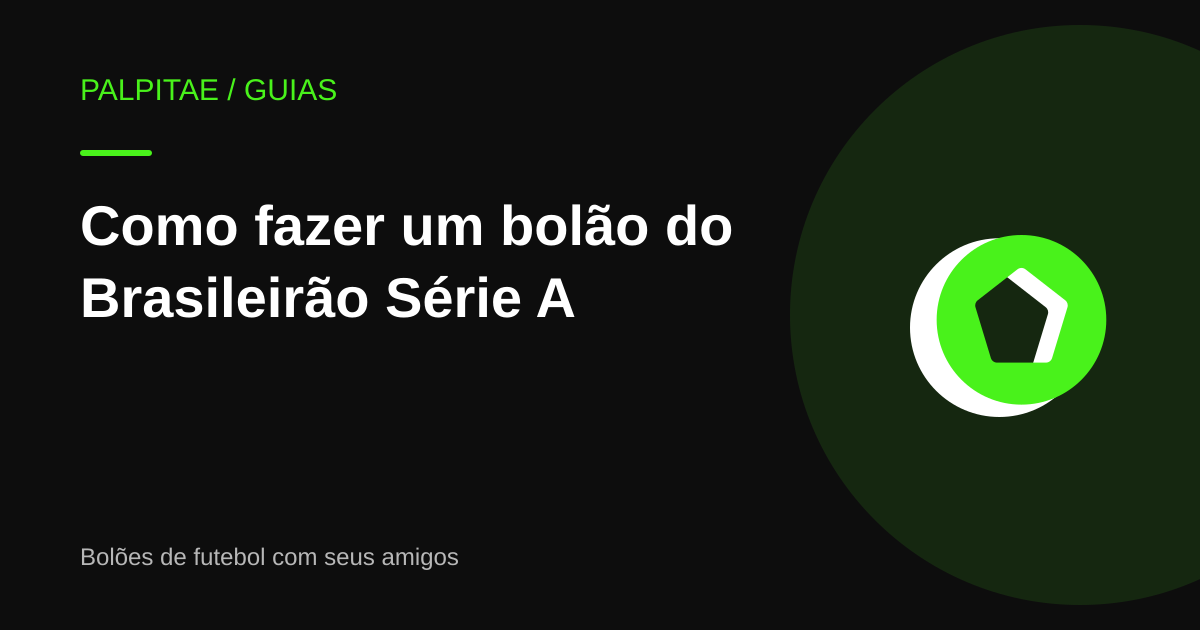
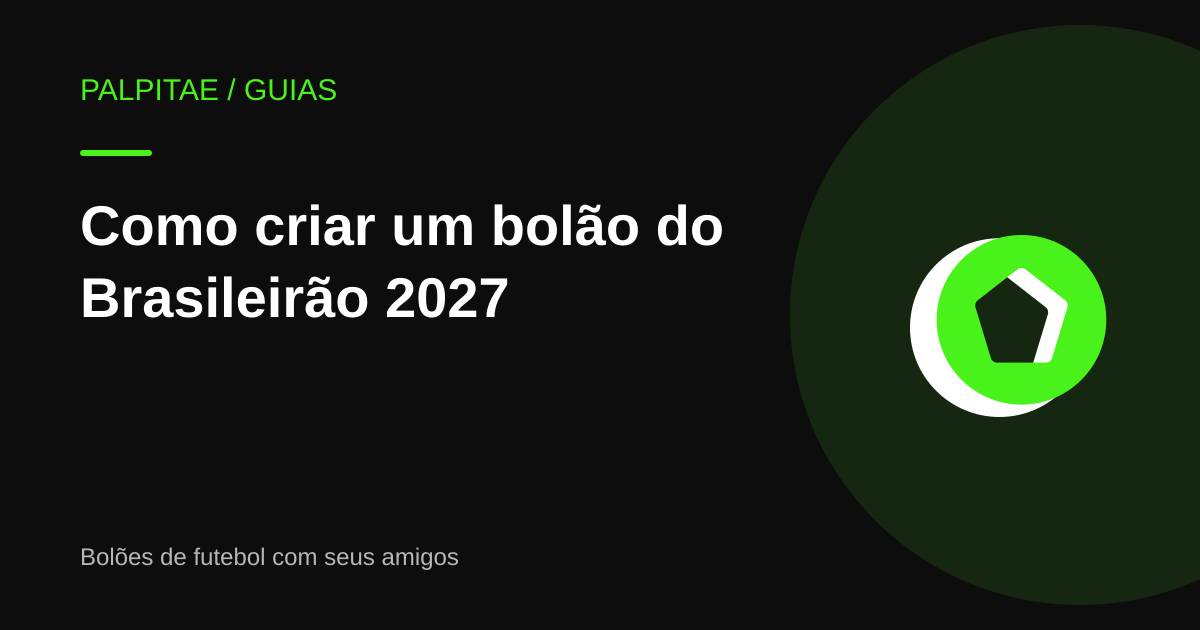
feat(seo): guia do Brasileirão responde a quem quer criar o bolão de 2027
Título, descrição, introdução e FAQ falam em criar o bolão de 2027, com
início em 27/01 segundo a CBF. O bloco de criar aparece depois da
introdução e a imagem de compartilhamento usa o título novo. URL e
canonical não mudam.

Changed region(s): [[0.2158, 0.3016, 0.6167, 0.3921], [0.3083, 0.4222, 0.4933, 0.5127]]

diff --git a/web/build/guides.ts b/web/build/guides.ts
@@ -43,6 +43,19 @@ interface GuideFaq {
   answer: string
 }
 
+interface GuideCta {
+  heading: string
+  text: string
+  /** Button label. Must not name a competition the sign-up flow can't select. */
+  label: string
+}
+
+const DEFAULT_CTA: GuideCta = {
+  heading: 'Pronto para começar?',
+  text: 'Crie um bolão grátis e convide seus amigos em segundos.',
+  label: 'Criar meu bolão grátis',
+}
+
 interface Guide {
   /** URL slug; page is served at /guias/<slug>/. */
   slug: string
@@ -60,6 +73,11 @@ interface Guide {
    * JSON-LD so search engines and answer engines can quote it.
    */
   faq?: GuideFaq[]
+  /**
+   * Replaces the default CTA copy and repeats the CTA right after the intro, for
+   * guides whose reader arrives wanting to create a pool.
+   */
+  cta?: GuideCta
   /**
    * ISO date (YYYY-MM-DD) the guide first went live: Article `datePublished`.
    * Fixed forever. Taken from the commit on main that introduced the slug
@@ -212,44 +230,66 @@ export const guides: Guide[] = [
   },
   {
     slug: 'bolao-do-brasileirao',
-    title: 'Como fazer um bolão do Brasileirão Série A',
+    title: 'Como criar um bolão do Brasileirão 2027',
     teaser:
-      'Clique aqui e veja como montar um bolão do Brasileirão com os amigos: 38 rodadas de palpites, pontuação automática e classificação atualizada o ano inteiro.',
+      'Clique aqui e veja como criar um bolão do Brasileirão 2027: início em 27 de janeiro, o que é preciso para começar, pontuação recomendada e regras para 38 rodadas.',
     description:
-      'Monte um bolão do Brasileirão Série A com os amigos: regras de pontuação para 38 rodadas, trava dos palpites e como manter o grupo engajado na temporada.',
+      'Como criar um bolão do Brasileirão 2027 com os amigos, o que é preciso para começar e a pontuação recomendada. A Série A começa em 27 de janeiro, segundo a CBF.',
     intro:
-      'O Brasileirão é o campeonato perfeito para bolão: são 38 rodadas ao longo do ano, jogo importante quase toda semana e reviravolta até a última rodada. Veja como montar o seu, que regras usar e como manter a disputa viva a temporada inteira.',
+      'A Série A de 2027 começa em 27 de janeiro, segundo o calendário divulgado pela CBF. Para criar o bolão, você precisa de uma conta Google e dos amigos que vão entrar no grupo por link ou código.',
+    cta: {
+      heading: 'Entre e crie o grupo do bolão',
+      text: 'Depois de entrar com a conta Google, toque em Criar grupo e escolha a competição. A Série A 2027 entra nessa lista depois da publicação da tabela.',
+      label: 'Criar bolão no Palpitae',
+    },
     sections: [
       {
-        heading: 'Por que o Brasileirão dá um ótimo bolão',
+        heading: 'Quando o Brasileirão 2027 entra no Palpitae',
         body: [
-          'Diferente de uma Copa do Mundo, que dura um mês, o Brasileirão é um campeonato de pontos corridos com 20 times e 380 jogos. Isso significa palpites toda semana durante mais de seis meses — a disputa do bolão acompanha a temporada inteira, e quem começa mal tem tempo de sobra para se recuperar.',
-          'Pontos corridos também premiam consistência: acertar palpites de jogos "fáceis" toda rodada vale tanto quanto cravar um placar improvável de vez em quando. É um teste real de quem acompanha o campeonato de verdade.',
+          'O calendário divulgado pela CBF marca o início da Série A em 27 de janeiro de 2027. A tabela com os confrontos e os horários de cada rodada ainda não tinha sido publicada na última atualização deste guia, em novembro de 2026.',
+          'O Palpitae carrega os jogos de uma temporada depois da publicação da tabela. Enquanto a Série A 2027 não aparecer na lista de competições do formulário de criação, não dá para criar o grupo dessa temporada. A lista mostra as competições com jogos em andamento ou por começar, e cada grupo acompanha uma competição.',
         ],
       },
       {
-        heading: 'Regras que funcionam bem em pontos corridos',
+        heading: 'Pontuação recomendada para 38 rodadas',
         body: [
-          'O sistema clássico funciona muito bem no Brasileirão: 3 pontos para quem crava o placar exato e 1 ponto para quem acerta só o resultado (vitória, empate ou derrota). Em 38 rodadas, essa diferença entre cravar e só acertar o vencedor separa bem os primeiros colocados.',
-          'Uma decisão importante é a trava dos palpites: o mais justo é travar cada palpite no horário de início daquele jogo, e não a rodada inteira de uma vez — no Brasileirão os jogos de uma mesma rodada se espalham entre sexta e segunda, e ninguém deveria ser impedido de palpitar no jogo de segunda por causa do jogo de sexta.',
+          'Recomendamos a opção Clássico, que já vem marcada no formulário de criação do Palpitae. Ela dá 3 pontos para quem crava o placar exato e 1 ponto para quem acerta só o resultado. Em 38 rodadas, essa diferença separa os primeiros colocados.',
+          'Combine também quando o palpite trava. O mais justo é travar cada palpite no horário de início do próprio jogo, porque os jogos de uma mesma rodada se espalham entre sexta e segunda. Se a rodada inteira travasse de uma vez, ninguém conseguiria palpitar no jogo de segunda depois do início do jogo de sexta.',
+        ],
+      },
+      {
+        heading: 'Por que o Brasileirão dá um ótimo bolão',
+        body: [
+          'Uma Copa do Mundo dura um mês. O Brasileirão é um campeonato de pontos corridos com 20 times e 380 jogos, e o bolão acompanha a temporada inteira. Quem começa mal tem tempo de sobra para se recuperar.',
+          'Pontos corridos também premiam consistência. Acertar o resultado de jogos "fáceis" toda rodada soma tanto quanto cravar um placar improvável de vez em quando, e quem acompanha o campeonato de verdade leva vantagem.',
         ],
       },
       {
         heading: 'Como manter o grupo engajado por 38 rodadas',
         body: [
-          'A temporada é longa, e o segredo é reduzir o atrito: se registrar palpite der trabalho, o grupo esvazia em um mês. Palpites pelo celular, lembrete antes da rodada e classificação atualizada automaticamente fazem mais diferença do que qualquer prêmio.',
-          'Também ajuda ter marcos no caminho: quem lidera no primeiro turno, quem foi o melhor do returno, quem acertou mais placares exatos. São títulos paralelos que renovam o interesse de quem já não briga pelo topo.',
+          'A temporada é longa, e o grupo esvazia se registrar o palpite der trabalho. Palpite pelo celular, lembrete antes da rodada e classificação atualizada automaticamente fazem mais diferença do que qualquer prêmio.',
+          'Marcos no caminho também ajudam, como quem lidera no primeiro turno, quem foi o melhor do returno e quem acertou mais placares exatos. Esses títulos paralelos renovam o interesse de quem já não briga pelo topo.',
         ],
       },
       {
-        heading: 'Monte seu bolão do Brasileirão no Palpitae',
+        heading: 'Como o bolão do Brasileirão funciona no Palpitae',
         body: [
-          'No Palpitae o Brasileirão Série A 2026 já está disponível: você cria um grupo privado gratuito, convida os amigos por link e cada um dá seus palpites rodada a rodada. Os resultados sincronizam sozinhos, a pontuação é automática e cada palpite trava no início do próprio jogo.',
-          'A classificação do grupo e a tabela real do campeonato ficam lado a lado no app — dá para ver quem manja de futebol e quem só tem sorte, a temporada inteira.',
+          'No Palpitae você cria um grupo privado gratuito, convida os amigos por link ou código e cada um dá seus palpites rodada a rodada. Os resultados sincronizam sozinhos, a pontuação é automática e cada palpite trava no início do próprio jogo.',
+          'A página do grupo traz a classificação do bolão e a tabela real do campeonato, e dá para ver quem manja de futebol e quem só tem sorte a temporada inteira.',
         ],
       },
     ],
     faq: [
+      {
+        question: 'Quando começa o Brasileirão 2027?',
+        answer:
+          'A Série A começa em 27 de janeiro de 2027, segundo o calendário divulgado pela CBF. A data de cada rodada depende da tabela.',
+      },
+      {
+        question: 'Já dá para criar o bolão do Brasileirão 2027?',
+        answer:
+          'Só quando a Série A 2027 aparecer na lista de competições do formulário de criação. O Palpitae carrega os jogos depois da publicação da tabela. Enquanto isso, a lista mostra as competições com jogos em andamento ou por começar.',
+      },
       {
         question: 'Quantos jogos tem o Brasileirão Série A?',
         answer:
@@ -267,7 +307,7 @@ export const guides: Guide[] = [
       },
     ],
     published: '2026-07-12',
-    updated: '2026-10-04',
+    updated: '2026-11-09',
   },
   {
     slug: 'bolao-copa-do-mundo',
@@ -781,6 +821,12 @@ export function renderGuide(g: Guide, gaId = ''): string {
         .map((o) => `<li><a href="${guidePath(o.slug)}">${escapeHtml(o.title)}</a></li>`)
         .join('')}</ul></nav>`
     : ''
+  const cta = g.cta ?? DEFAULT_CTA
+  const ctaHtml = `<div class="cta">
+        <strong>${escapeHtml(cta.heading)}</strong>
+        <p>${escapeHtml(cta.text)}</p>
+        <a class="btn" href="${loginHref(`guia_${g.slug}`)}">${escapeHtml(cta.label)}</a>
+      </div>`
   return `<!doctype html>
 <html lang="pt-BR">
   <head>
@@ -792,15 +838,11 @@ ${head(path, g.title, g.description, jsonLd, gaId, 'article', `${SITE_URL}/og/gu
       <nav class="crumbs"><a href="/">Início</a> › <a href="/guias/">Guias</a> › ${escapeHtml(g.title)}</nav>
       <article>
         <h1>${escapeHtml(g.title)}</h1>
-        <p class="intro">${escapeHtml(g.intro)}</p>
+        <p class="intro">${escapeHtml(g.intro)}</p>${g.cta ? `\n        ${ctaHtml}` : ''}
         ${sections}
         ${faqHtml}
       </article>
-      <div class="cta">
-        <strong>Pronto para começar?</strong>
-        <p>Crie um bolão grátis e convide seus amigos em segundos.</p>
-        <a class="btn" href="${loginHref(`guia_${g.slug}`)}">Criar meu bolão grátis</a>
-      </div>
+      ${ctaHtml}
       ${relatedHtml}
       ${SITE_FOOTER}
     </div>

diff --git a/web/build/guides.test.ts b/web/build/guides.test.ts
@@ -2,6 +2,7 @@
 import { afterEach, beforeEach, describe, expect, it, vi } from 'vitest'
 import { readFileSync } from 'node:fs'
 import { join } from 'node:path'
+import { captureGuideOrigin } from '../src/analytics/guideOrigin'
 import { LANDING_GUIDE_LINKS } from '../src/pages/LandingPage/guideLinks'
 import { normalizeGaId } from './analytics'
 import { guides, renderGuide, renderIndex, renderLlmsTxt } from './guides'
@@ -93,6 +94,71 @@ describe('guide catalog', () => {
       expect(image.readUInt32BE(16)).toBe(1200)
       expect(image.readUInt32BE(20)).toBe(630)
     }
+  })
+})
+
+describe('guia do Brasileirão 2027', () => {
+  const guide = guides.find((g) => g.slug === 'bolao-do-brasileirao')!
+  const doc = new DOMParser().parseFromString(renderGuide(guide), 'text/html')
+  const pageText = doc.body.textContent ?? ''
+
+  it('fala em criar bolão do Brasileirão 2027 no título, no H1 e na descrição', () => {
+    const term = /criar um bolão do Brasileirão 2027/
+    expect(doc.title).toMatch(term)
+    expect(doc.querySelector('h1')!.textContent).toMatch(term)
+    expect(doc.querySelector('meta[name="description"]')!.getAttribute('content')).toMatch(term)
+  })
+
+  it('mantém URL e canonical', () => {
+    expect(doc.querySelector('link[rel="canonical"]')!.getAttribute('href')).toBe(
+      'https://palpitae.com.br/guias/bolao-do-brasileirao/',
+    )
+  })
+
+  it('cita só a data de início do calendário da CBF, sem data de rodada', () => {
+    expect(pageText).toContain('27 de janeiro de 2027')
+    expect(pageText).toContain('CBF')
+    const months =
+      'janeiro|fevereiro|março|abril|maio|junho|julho|agosto|setembro|outubro|novembro|dezembro'
+    const dates = [...pageText.matchAll(new RegExp(`\\d{1,2} de (?:${months})`, 'g'))].map(
+      (m) => m[0],
+    )
+    expect(new Set(dates)).toEqual(new Set(['27 de janeiro']))
+  })
+
+  it('leva os dois botões ao login com a origem do guia e sem parâmetro que o app não lê', () => {
+    const hrefs = [...doc.querySelectorAll('a.btn')].map((a) => a.getAttribute('href'))
+    expect(hrefs).toEqual([
+      '/entrar?from=guia_bolao-do-brasileirao',
+      '/entrar?from=guia_bolao-do-brasileirao',
+    ])
+    expect(captureGuideOrigin(hrefs[0]!.split('?')[1])).toBe('guia_bolao-do-brasileirao')
+  })
+
+  it('condiciona a temporada 2027 à publicação da tabela', () => {
+    expect(pageText).toContain('A Série A 2027 entra nessa lista depois da publicação da tabela.')
+    expect(pageText).not.toMatch(/2027[^.]*(já está|disponível)/)
+  })
+
+  it('preserva o conteúdo útil do guia anterior', () => {
+    for (const excerpt of [
+      '20 times e 380 jogos',
+      'premiam consistência',
+      'entre sexta e segunda',
+      'lembrete antes da rodada',
+      'melhor do returno',
+      'Quantos jogos tem o Brasileirão Série A?',
+      'O que acontece com jogo adiado no bolão?',
+    ]) {
+      expect(pageText).toContain(excerpt)
+    }
+  })
+
+  it('não altera o botão dos guias sem texto próprio', () => {
+    const other = new DOMParser().parseFromString(renderGuide(guides[0]), 'text/html')
+    const buttons = [...other.querySelectorAll('a.btn')]
+    expect(buttons).toHaveLength(1)
+    expect(buttons[0].textContent).toBe('Criar meu bolão grátis')
   })
 })
 
